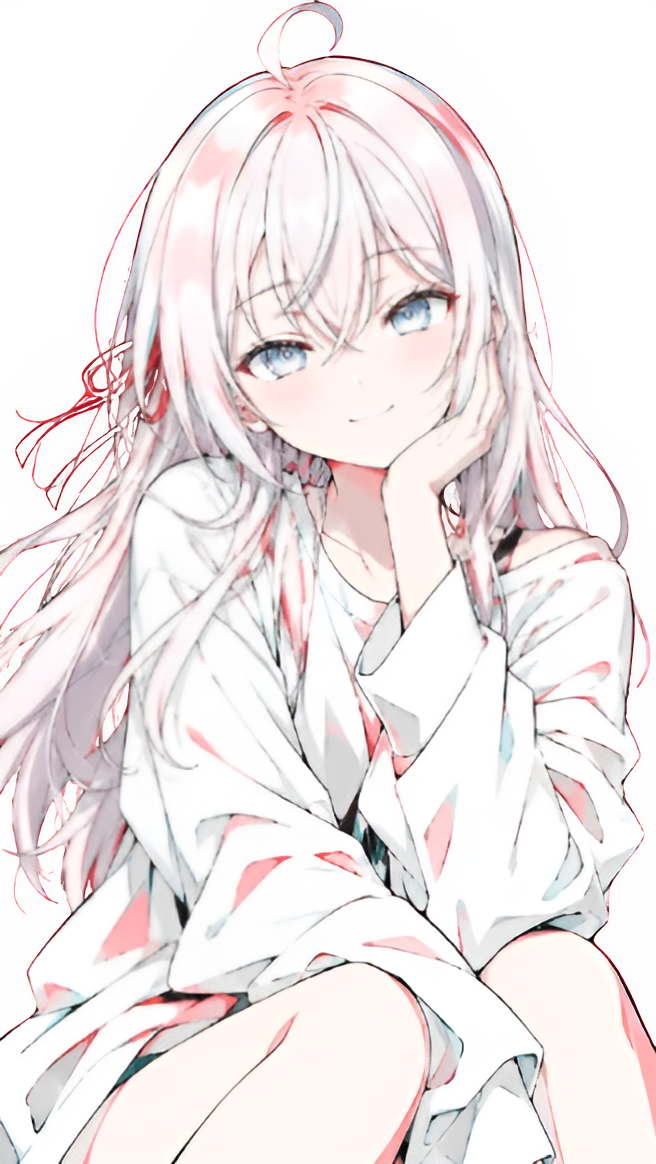
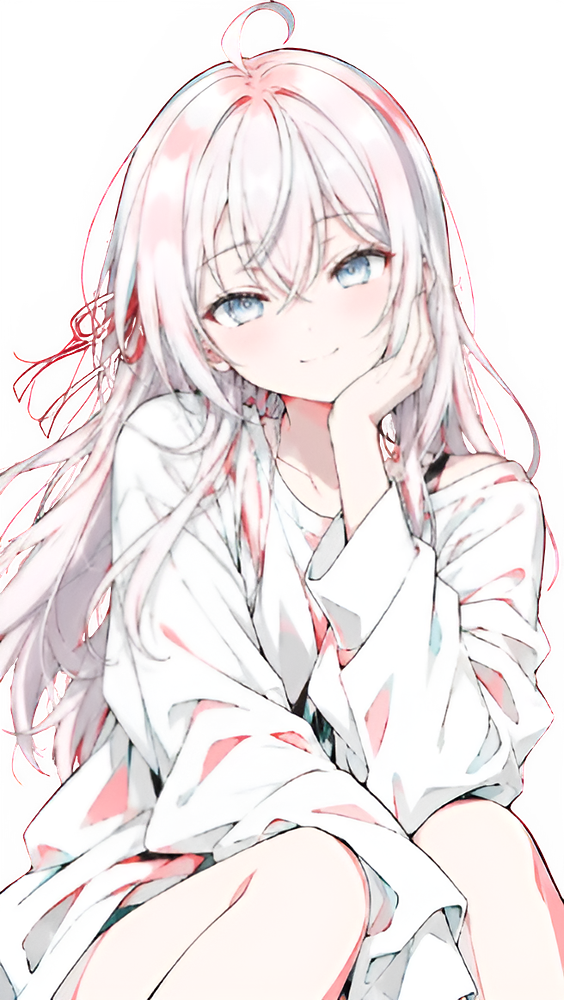
Add the sources server button and sharpen the art
Add a quiet full-width Discord invite button to the details card, and resample the two side pictures to 2x their display size with a light sharpening pass.

🤖 Generated with Codebuff

diff --git a/styles.css b/styles.css
@@ -238,6 +238,53 @@ button.panel__row:hover .panel__label { color: var(--ink-soft); }
 
 .panel__row.is-copied .panel__value { color: #fff; }
 
+.panel__cta {
+  display: flex;
+  align-items: center;
+  justify-content: space-between;
+  gap: 12px;
+  margin: 12px 0 10px;
+  padding: 9px 11px;
+  border: 1px solid rgba(255, 255, 255, .14);
+  border-radius: 8px;
+  color: var(--ink);
+  font-size: .8rem;
+  line-height: 1.35;
+  text-decoration: none;
+  transition: color .15s var(--ease), border-color .15s var(--ease), background-color .15s var(--ease);
+}
+
+.panel__cta:hover,
+.panel__cta:focus-visible {
+  color: #fff;
+  border-color: rgba(255, 255, 255, .28);
+  background: rgba(255, 255, 255, .045);
+}
+
+.panel__cta:focus-visible {
+  outline: 2px solid rgba(255, 255, 255, .55);
+  outline-offset: 2px;
+}
+
+.panel__cta-icon {
+  flex: none;
+  width: 13px;
+  height: 13px;
+  opacity: .65;
+  transition: opacity .15s var(--ease);
+}
+
+.panel__cta:hover .panel__cta-icon,
+.panel__cta:focus-visible .panel__cta-icon { opacity: 1; }
+
+.panel__cta-icon path {
+  fill: none;
+  stroke: currentColor;
+  stroke-width: 1.5;
+  stroke-linecap: round;
+  stroke-linejoin: round;
+}
+
 /* ---------------- fallback ---------------- */
 
 .noscript {

diff --git a/script.js b/script.js
@@ -101,7 +101,29 @@
   };
 
   const notes = q('[data-notes]');
-  if (notes) (S.notes || []).forEach((item) => notes.append(noteRow(item)));
+  if (notes) {
+    (S.notes || []).forEach((item) => notes.append(noteRow(item)));
+
+    if (S.server && S.server.href) {
+      const cta = document.createElement('a');
+      cta.className = 'panel__cta';
+      cta.href = S.server.href;
+      cta.target = '_blank';
+      cta.rel = 'noreferrer';
+
+      const ctaLabel = document.createElement('span');
+      ctaLabel.textContent = S.server.label || 'join the discord';
+
+      const icon = document.createElementNS('http://www.w3.org/2000/svg', 'svg');
+      icon.setAttribute('class', 'panel__cta-icon');
+      icon.setAttribute('viewBox', '0 0 16 16');
+      icon.setAttribute('aria-hidden', 'true');
+      icon.innerHTML = '<path d="M5.3 10.7 10.7 5.3M6.4 5.3h4.3v4.3" />';
+
+      cta.append(ctaLabel, icon);
+      notes.after(cta);
+    }
+  }
 
   /* ---------- side art (only if the files exist) ---------- */
   const mountArt = (side) => {

diff --git a/index.html b/index.html
@@ -20,7 +20,7 @@
   <link rel="preconnect" href="https://fonts.googleapis.com" />
   <link rel="preconnect" href="https://fonts.gstatic.com" crossorigin />
   <link href="https://fonts.googleapis.com/css2?family=Bricolage+Grotesque:wght@400;500&display=swap" rel="stylesheet" />
-  <link rel="stylesheet" href="styles.css?v=10" />
+  <link rel="stylesheet" href="styles.css?v=11" />
 </head>
 <body>
   <div class="backdrop" aria-hidden="true">
@@ -46,7 +46,7 @@
     <p class="noscript">I'm heliynn. I use AI to make small tools and websites. Plain files: <a href="content.js">content</a>, <a href="offsets.json">offsets</a>.</p>
   </noscript>
 
-  <script src="content.js?v=10"></script>
-  <script src="script.js?v=10"></script>
+  <script src="content.js?v=11"></script>
+  <script src="script.js?v=11"></script>
 </body>
 </html>

diff --git a/content.js b/content.js
@@ -21,10 +21,16 @@ window.SITE = {
     { label: "offsets", value: "offsets.json", href: "offsets.json" }
   ],
 
+  /* The button under the rows. */
+  server: {
+    label: "join the sources server",
+    href: "https://discord.gg/zJGbBw3yep"
+  },
+
   /* The two pictures at the edges. Delete a line to hide one.
      Update width and height if you swap in a different image. */
   art: {
-    left: { src: "assets/art-left.png?v=10", width: 656, height: 1164 },
-    right: { src: "assets/art-right.png?v=10", width: 790, height: 1166 }
+    left: { src: "assets/art-left.png?v=11", width: 564, height: 1000 },
+    right: { src: "assets/art-right.png?v=11", width: 678, height: 1000 }
   }
 };

diff --git a/assets/README.md b/assets/README.md
@@ -2,8 +2,8 @@
 
 These two files are already placed and shown at the page edges:
 
-- `art-left.png`: the white-haired picture (656×1164, transparent background)
-- `art-right.png`: the red-dress picture (790×1166, transparent background)
+- `art-left.png`: the white-haired picture (564×1000, transparent background)
+- `art-right.png`: the red-dress picture (678×1000, transparent background)
 - `share.png`: the 1200×630 social preview, built from `art-left.png`
 
 They sit behind the content at full opacity and hide below 1260px wide so they never sit
@@ -13,13 +13,13 @@ To swap sides, rename the files or change the paths in `content.js`:
 
 ```js
 art: {
-  left: { src: "assets/art-left.png?v=10", width: 656, height: 1164 },
-  right: { src: "assets/art-right.png?v=10", width: 790, height: 1166 }
+  left: { src: "assets/art-left.png?v=11", width: 564, height: 1000 },
+  right: { src: "assets/art-right.png?v=11", width: 678, height: 1000 }
 }
 ```
 
 Remove a line to drop that side. The width and height let the page reserve space before
-the file loads. The `?v=10` on each path is a cache-buster; raise that number when you
+the file loads. The `?v=11` on each path is a cache-buster; raise that number when you
 replace a picture so browsers fetch the new one.
 
 `share.png` is not used on the page. It is only the preview image for links, and you can

diff --git a/README.md b/README.md
@@ -29,6 +29,7 @@ The placeholders to replace:
 - `statement` — the paragraph next to the name.
 - `notes` — the rows in the details card: `discord`, `github`, `offsets`. A row with `copy`
   copies its handle on click, and a row with `href` is a link.
+- `server` — the button under the rows. `label` is its wording and `href` is the invite.
 
 The name is lowercase on purpose: `display: "servyy"`.
 
